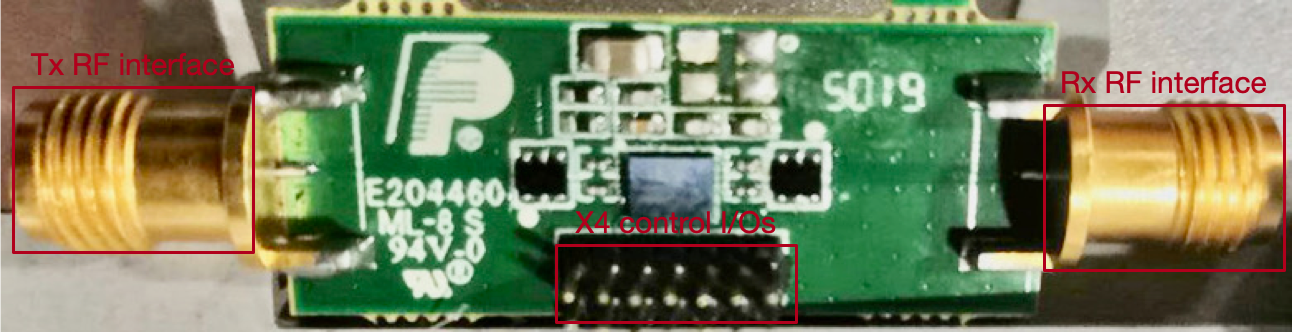
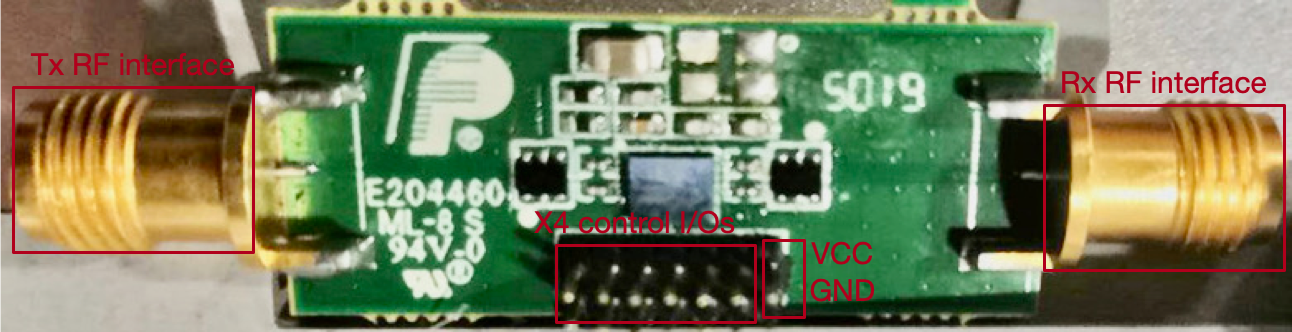
updated hardware README.md

Changed region(s): [[0.4025, 0.6325, 0.6811, 0.994]]

diff --git a/hardware/README.md b/hardware/README.md
@@ -1,4 +1,27 @@
 # Getting to Know the Hardware
 
-We offer information about the hardware and tips on how to use the hardware. 
+We offer information about the hardware and tips on how to use the hardware. More detail about the hardware, please refer to schematics. Here, we just list the key components in the following pictures.
+
+## Antenna Array Board
+
+![Aaron Swartz](https://raw.githubusercontent.com/DeepWiSe888/Octopus/main/image/array_board.png)
+
+- *Tx RF interface*: This interface provides the Tx radio that allows RF signals can be transmitted at range from 0 GHz and 8 GHz. 
+- *Rx RF interface*: This interface provides the Rx radio that allows RF signals can be received at range from 0 GHz and 8 GHz. 
+- *Tx switch I/Os*: The header pins are used for Tx antenna switching, and connected to FPGA for controlling. 
+- *Rx switch I/Os*: The header pins are used for Rx antenna switching, and connected to FPGA for controlling. 
+- *Power*: The power jack is where the power supply that comes with power source.
+- *GND*: The ground is used to connect to other developing boards in ground plane.
+
+## X4 Testing Board
+
+![Aaron Swartz](https://raw.githubusercontent.com/DeepWiSe888/Octopus/main/image/x4_board.png)
+
+- *Tx RF interface*: This interface provides the Tx radio that allows RF signals can be transmitted at 7.29 GHz with 1.4 GHz bandwidth.
+- *Rx RF interface*: This interface provides the Rx radio that allows RF signals can be received at 7.29 GHz with 1.4 GHz bandwidth.
+- *X4 control I/Os*: The header pins includes SPI pins, clock synchronization pins, trigger pins, etc. which are connected to FPGA.
+- *Power*: The power jack is where the power supply that comes with power source.
+- *GND*: The ground is used to connect to other developing boards in ground plane.
+
+
 

diff --git a/README.md b/README.md
@@ -14,7 +14,7 @@ Below Figure shows more details about Antenna Board Controller (ABC).
 
 ![Aaron Swartz](https://raw.githubusercontent.com/DeepWiSe888/Octopus/main/image/abc.png)
 
-ABC includes three components: Hybrid Array Controller (HAC), Antenna Array Controller (AAC) and Multiple SPI Controller (MSC).  HAC is the key component to schedule antenna array and multiple X4 chips, and it also collects the RX data from MSC to construct packets with specific format. AAC utilizes multiple GPIOs to control RF switch to obtain a *time-division* antenna array.  MSC is used to communicate with X4 chips via SPI buses, and reconfigure X4 chips according to application requirements.  
+ABC includes three components: Hybrid Array Controller (HAC), Antenna Array Controller (AAC) and Multiple SPI Controller (MSC).  HAC is the key component to schedule antenna array and multiple X4 chips, and it also collects the RX data from MSC to construct packets with specific format. AAC utilizes multiple GPIOs to control RF switch to obtain a *time-division* antenna array.  MSC is used to communicate with X4 chips via SPI buses, and reconfigure X4 chips according to application requirements.  The following documentation describes where the different components belong to.
 
 # Design Files & Codes
 
